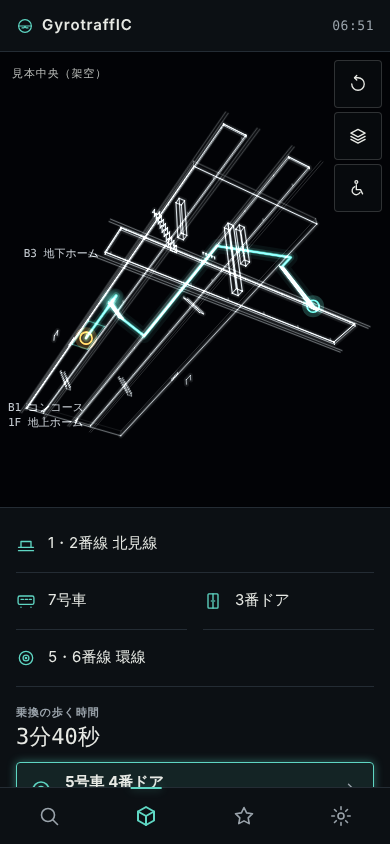
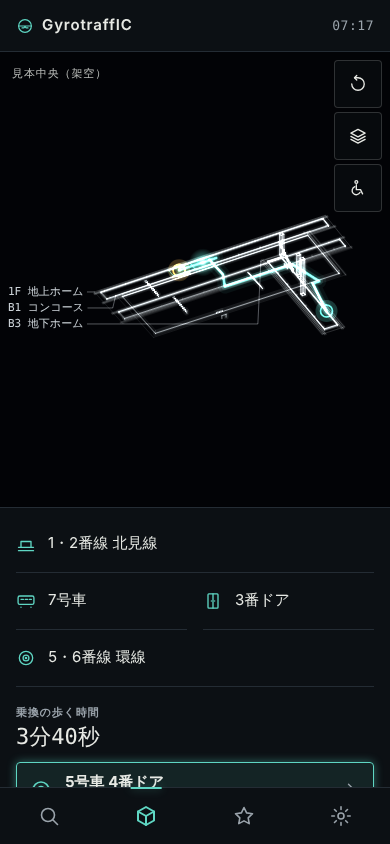
e-station3d: 床を水平に（パースを弱めた正投影寄り・階ごとの床の板）、斜めは階段・エスカレーターだけ、階の名前を引き出し線で重ならず配置、試験と正面・斜め・真上の画像
Claude-Session: https://claude.ai/code/session_01CAQbAT4xuzQZ6JdbQFtrph

diff --git a/ui-variants/e-station3d/js/station3d.js b/ui-variants/e-station3d/js/station3d.js
@@ -25,7 +25,7 @@
     var zMid = (Math.max.apply(null, zs) + Math.min.apply(null, zs)) / 2;
     var R = Math.hypot(maxX - minX, maxY - minY) / 2;
 
-    var HOME = { yaw: -62 * DEG, pitch: 40 * DEG, zoom: 1, tx: 0, tz: 0 };
+    var HOME = { yaw: -28 * DEG, pitch: 38 * DEG, zoom: 1, tx: 0, tz: 0 };
     var cam = { yaw: HOME.yaw, pitch: HOME.pitch, zoom: 1, tx: 0, tz: 0 };
     var SPREAD = [2.6, 5];   // 高さの誇張（階の間が薄く見えないように）。「階の間隔を広げる」で 5 倍
     var spread = SPREAD[0], spreadTo = SPREAD[0];
@@ -38,29 +38,48 @@
     // ── 世界の座標（x 東・y 北・z 上、単位 m）→ 描画の座標（X 右・Y 上・Z 手前）
     function zOf(level, dz) { return (L[level].z - zMid) * spread + (dz || 0); }
     function P(x, y, level, dz) { return [x - cx, zOf(level, dz), y - cy]; }
+    function slabOf(lv) {
+      var b = null, m = 4;
+      st.areas.forEach(function (a) {
+        if (a.level !== lv) return;
+        var r = a.rect;
+        b = b ? [Math.min(b[0], r[0] - m), Math.min(b[1], r[1] - m), Math.max(b[2], r[2] + m), Math.max(b[3], r[3] + m)] : [r[0] - m, r[1] - m, r[2] + m, r[3] + m];
+      });
+      return b;
+    }
 
     // ── 線分を作る（形は spread で変わるので、毎回作る。数百本なので軽い）
     function build() {
-      var S = [];   // [a, b, 強さ, 色]
-      function seg(a, b, k, col) { S.push([a, b, k, col || WHITE]); }
+      var S = [];   // [a, b, 強さ, 色, 種類]  種類：floor（床・水平）/ post（鉛直）/ stairs・escalator（斜め）/ mark
+      var tag = "floor";
+      function seg(a, b, k, col) { S.push([a, b, k, col || WHITE, tag]); }
       function rect(x0, y0, x1, y1, lv, dz, k) {
         var a = P(x0, y0, lv, dz), b = P(x1, y0, lv, dz), c = P(x1, y1, lv, dz), d = P(x0, y1, lv, dz);
         seg(a, b, k); seg(b, c, k); seg(c, d, k); seg(d, a, k);
       }
       function box(x0, y0, x1, y1, lv, h, kFloor, kTop, kPost) {
-        rect(x0, y0, x1, y1, lv, 0, kFloor); rect(x0, y0, x1, y1, lv, h, kTop);
+        var t0 = tag;
+        rect(x0, y0, x1, y1, lv, 0, kFloor); tag = "top"; rect(x0, y0, x1, y1, lv, h, kTop);
+        tag = "post";
         [[x0, y0], [x1, y0], [x1, y1], [x0, y1]].forEach(function (q) { seg(P(q[0], q[1], lv, 0), P(q[0], q[1], lv, h), kPost); });
+        tag = t0;
       }
+      // 階ごとの床の板（その階の区画をすべて囲む水平の矩形。高さは階ごとに一定）
+      st.levels.forEach(function (l) {
+        var b = slabOf(l.id); if (b) rect(b[0], b[1], b[2], b[3], l.id, 0, 0.22);
+      });
       st.areas.forEach(function (a) {
         var r = a.rect;
         if (a.kind === "platform") box(r[0], r[1], r[2], r[3], a.level, 1.1, 0.5, 1, 0.55);
         else box(r[0], r[1], r[2], r[3], a.level, 3.2, 0.85, 0.22, 0.3);
       });
+      tag = "track";
       st.tracks.forEach(function (t) {
         var ax = t.from[0] === t.to[0] ? [0.55, 0] : [0, 0.55];
         seg(P(t.from[0] - ax[0], t.from[1] - ax[1], t.level, -0.2), P(t.to[0] - ax[0], t.to[1] - ax[1], t.level, -0.2), 0.32);
         seg(P(t.from[0] + ax[0], t.from[1] + ax[1], t.level, -0.2), P(t.to[0] + ax[0], t.to[1] + ax[1], t.level, -0.2), 0.32);
       });
+      tag = "post";
       // 号車の区切り（ホームの縁に短い縦線）
       st.platforms.forEach(function (p) {
         for (var c = 1; c <= p.cars + 1; c++) {
@@ -70,11 +89,12 @@
           seg(P(e2[0], e2[1], p.level, 1.1), P(e2[0], e2[1], p.level, 1.9), 0.3);
         }
       });
-      // 上下の移動の設備
+      // 上下の移動の設備（エレベーターは鉛直、階段・エスカレーターだけが斜め）
       st.edges.forEach(function (e) {
         var a = N[e.a], b = N[e.b];
         if (e.kind !== "stairs" && e.kind !== "escalator" && e.kind !== "elevator") return;
         var top = L[a.level].z > L[b.level].z ? a : b, bot = top === a ? b : a;
+        tag = e.kind === "elevator" ? "post" : e.kind;
         var dzTop = top.level === "L1" || /^P/.test(top.id) ? 1.1 : 0;
         if (e.kind === "elevator") {
           var h0 = 0, h1 = zOf(top.level, dzTop + 2.8) - zOf(bot.level, 0);
@@ -98,6 +118,7 @@
         var a1 = A(-1.1), a2 = A(1.1), b1 = B(-1.1), b2 = B(1.1);
         seg(a1, a2, 0.7); seg(b1, b2, 0.7);
       });
+      tag = "mark";
       // 改札（通路を横切る低い柱の列）と出口（門の枠）
       st.nodes.forEach(function (n) {
         if (n.kind === "gate") {
@@ -113,14 +134,15 @@
         }
       });
       // 選んだ号車（枠）とドア（縦の線）、乗換先
+      tag = "mark";
       if (sel) {
         var p = GT.stationGraph.platformOf(st, sel.platform);
         var cr = GT.stationGraph.carRange(p, sel.car);
         var w = p.axis === "x" ? [cr[0], p.center - 4.2, cr[1], p.center + 4.2] : [p.center - 5.2, cr[0], p.center + 5.2, cr[1]];
         var q = [P(w[0], w[1], p.level, 1.2), P(w[2], w[1], p.level, 1.2), P(w[2], w[3], p.level, 1.2), P(w[0], w[3], p.level, 1.2)];
-        for (var i = 0; i < 4; i++) S.push([q[i], q[(i + 1) % 4], 0.8, ACC]);
+        for (var i = 0; i < 4; i++) S.push([q[i], q[(i + 1) % 4], 0.8, ACC, "mark"]);
         var d = GT.stationGraph.doorXY(st, p, sel.car, sel.door);
-        S.push([P(d.x, d.y, p.level, 1.2), P(d.x, d.y, p.level, 4.2), 1, AMBER]);
+        S.push([P(d.x, d.y, p.level, 1.2), P(d.x, d.y, p.level, 4.2), 1, AMBER, "post"]);
       }
       return S;
     }
@@ -158,8 +180,12 @@
 
     // ── 投影
     var fit = { k: 1, ox: 0, oy: 0 };
-    function fovF() { return fit.k * H / (2 * Math.tan(20 * DEG)); }
-    function camDist() { var asp = W / Math.max(1, H); return (R * 0.98 / Math.tan(20 * DEG)) / Math.min(1, asp * 1.15) / cam.zoom; }
+    // 不具合の元：以前は画角 40° でカメラが駅の大きさ R の約 2.7 倍の距離にあり、パースが強すぎた。
+    // 細長いホーム（205m×10m）の水平な矩形が手前ほど大きく広がって、どの床も「坂」に見えていた。
+    // いまは画角を狭くして遠くから見る（正投影に近い。奥行きの差による大きさの差は約 ±8%）。
+    var FOV = 4 * DEG;
+    function fovF() { return fit.k * H / (2 * Math.tan(FOV / 2)); }
+    function camDist() { var asp = W / Math.max(1, H); return (R * 0.98 / Math.tan(FOV / 2)) / Math.min(1, asp * 1.15) / cam.zoom; }
     function proj(p, D, f) {
       var x = p[0] - cam.tx, y = p[1], z = p[2] - cam.tz;
       var cy_ = Math.cos(cam.yaw), sy = Math.sin(cam.yaw), cp = Math.cos(cam.pitch), sp = Math.sin(cam.pitch);
@@ -176,10 +202,10 @@
       var D = camDist(), f = fovF(), x0 = 1e9, x1 = -1e9, y0 = 1e9, y1 = -1e9;
       segs.forEach(function (s) { [s[0], s[1]].forEach(function (p) { var q = proj(p, D, f); if (!q) return; x0 = Math.min(x0, q[0]); x1 = Math.max(x1, q[0]); y0 = Math.min(y0, q[1]); y1 = Math.max(y1, q[1]); }); });
       if (x1 <= x0) return;
-      var padX = 20, padTop = 20, padBot = 30;
-      var k = Math.min((W - padX * 2) / (x1 - x0), (H - padTop - padBot) / (y1 - y0));
+      var padL = 112, padX = 20, padTop = 20, padBot = 30;   // 左は階の名前の列のぶん空ける
+      var k = Math.min((W - padL - padX) / (x1 - x0), (H - padTop - padBot) / (y1 - y0));
       fit.k = k;
-      fit.ox = -((x0 + x1) / 2 - W / 2) * k;
+      fit.ox = -((x0 + x1) / 2 - (W + padL - padX) / 2) * k;
       fit.oy = -((y0 + y1) / 2 - (H + padTop - padBot) / 2) * k;
     }
     function resize() {
@@ -217,7 +243,7 @@
       ctx.globalCompositeOperation = "source-over";
       ctx.fillStyle = "#020306";
       ctx.fillRect(0, 0, W, H);
-      var D = camDist(), f = fovF(), near = D - R * 0.7, far = D + R * 1.0;
+      var D = camDist(), f = fovF(), near = D - R * 0.7, far = D + R * 1.0;   // 奥行きの薄れ（D に対する相対値なので、遠くから見ても同じ効き）
       ctx.globalCompositeOperation = "lighter";
       ctx.lineCap = "round"; ctx.lineJoin = "round";
       // 光のにじみ（太く淡く）→ 芯（細く強く）
@@ -226,23 +252,33 @@
         strokeBuckets(segs, D, f, near, far, col, 2.2, 0.22);
         strokeBuckets(segs, D, f, near, far, col, 1, 0.95);
       });
-      // 階の名前
+      // 階の名前：床の板の、画面でいちばん左の角から外側へ引き出し線を出し、左の列に階の高い順で並べる（重ならないよう 16px 以上離す）
       ctx.font = "11px ui-monospace, Menlo, monospace";
       ctx.textBaseline = "middle";
       var labs = [];
       st.levels.forEach(function (l) {
-        var a0 = st.areas.find(function (a) { return a.level === l.id; });
-        var q = a0 ? proj(P(a0.rect[0], a0.rect[1], l.id, 0), D, f) : null;
-        if (!q) return;
-        var tw = ctx.measureText(l.name).width;
-        labs.push({ t: l.name, x: Math.min(W - tw - 8, Math.max(8, q[0] - tw - 6)), y: q[1] });
+        var sb = slabOf(l.id); if (!sb) return;
+        var best = null;
+        [[sb[0], sb[1]], [sb[2], sb[1]], [sb[2], sb[3]], [sb[0], sb[3]]].forEach(function (c) {
+          var q = proj(P(c[0], c[1], l.id, 0), D, f); if (q && (!best || q[0] < best[0])) best = q;
+        });
+        if (best) labs.push({ t: l.name, z: L[l.id].z, ax: best[0], ay: best[1], y: best[1], w: ctx.measureText(l.name).width });
       });
-      // 重ならないよう縦にずらす
-      labs.sort(function (a, b) { return a.y - b.y; });
-      for (var li = 1; li < labs.length; li++) if (Math.abs(labs[li].x - labs[li - 1].x) < 90 && labs[li].y - labs[li - 1].y < 15) labs[li].y = labs[li - 1].y + 15;
-      ctx.fillStyle = "rgba(" + WHITE + ",.82)";
-      ctx.textAlign = "left";
-      labs.forEach(function (b) { ctx.fillText(b.t, b.x, b.y); });
+      labs.sort(function (a, b) { return b.z - a.z; });
+      for (var it = 0; it < 4; it++) {
+        for (var li = 1; li < labs.length; li++) if (labs[li].y < labs[li - 1].y + 16) labs[li].y = labs[li - 1].y + 16;
+        for (li = labs.length - 2; li >= 0; li--) if (labs[li].y > labs[li + 1].y - 16) labs[li].y = labs[li + 1].y - 16;
+      }
+      labs.forEach(function (b) {
+        b.y = Math.max(10, Math.min(H - 10, b.y));
+        var tx = 8, ex = tx + b.w + 4;
+        ctx.strokeStyle = "rgba(" + WHITE + ",.35)"; ctx.lineWidth = 1;
+        ctx.beginPath(); ctx.moveTo(ex, b.y); ctx.lineTo(Math.max(ex + 6, b.ax - 3), b.y); ctx.lineTo(b.ax, b.ay); ctx.stroke();
+        ctx.fillStyle = "rgba(" + WHITE + ",.85)"; ctx.textAlign = "left";
+        ctx.fillText(b.t, tx, b.y);
+        b.box = [tx, b.y - 7, ex, b.y + 7];
+      });
+      lastLabels = labs;
       // 経路
       if (route) {
         var pr = route.map(function (p) { return proj(p, D, f); });
@@ -308,7 +344,7 @@
       if (animating(now)) kick(); else last = 0;
     }
     function kick() { if (!raf && alive) raf = requestAnimationFrame(frame); }
-    function clampP(p) { return Math.min(80 * DEG, Math.max(8 * DEG, p)); }
+    function clampP(p) { return Math.min(90 * DEG, Math.max(12 * DEG, p)); }   // ピッチは 12°〜真上 90°。ヨーは鉛直の軸まわりだけなので床は常に水平
 
     // ── 操作：1 本指＝回転、2 本指＝拡大（つまむ）と平行移動、ホイール＝拡大、矢印キー＝回転、＋−＝拡大
     var pts = {}, drag = { active: false };
@@ -369,7 +405,7 @@
     if (ro) ro.observe(canvas); else window.addEventListener("resize", resize);
     resize();
 
-    var lastR = null;
+    var lastR = null, lastLabels = [];
     return {
       setSelection: function (s) { sel = s; segs = build(); kick(); },
       setRoute: function (r) {
@@ -383,6 +419,10 @@
       resume: function () { alive = true; last = 0; resize(); },
       destroy: function () { alive = false; if (raf) cancelAnimationFrame(raf); raf = 0; if (ro) ro.disconnect(); },
       _state: function () { return { cam: Object.assign({}, cam), spread: spread, routeT: routeT, segs: segs.length, running: !!raf }; },
+      _segs: function () { return segs.map(function (s) { return { a: s[0], b: s[1], tag: s[4] }; }); },
+      _levelHeights: function () { var o = {}; st.levels.forEach(function (l) { o[l.id] = zOf(l.id, 0); }); return o; },
+      _labels: function () { return lastLabels.map(function (b) { return { t: b.t, box: b.box }; }); },
+      _setCam: function (yaw, pitch) { cam.yaw = yaw; cam.pitch = clampP(pitch); vel.yaw = vel.pitch = 0; fitView(); kick(); },
       _project: function (x, y, level, dz) { return proj(P(x, y, level, dz), camDist(), fovF()); }
     };
   }
